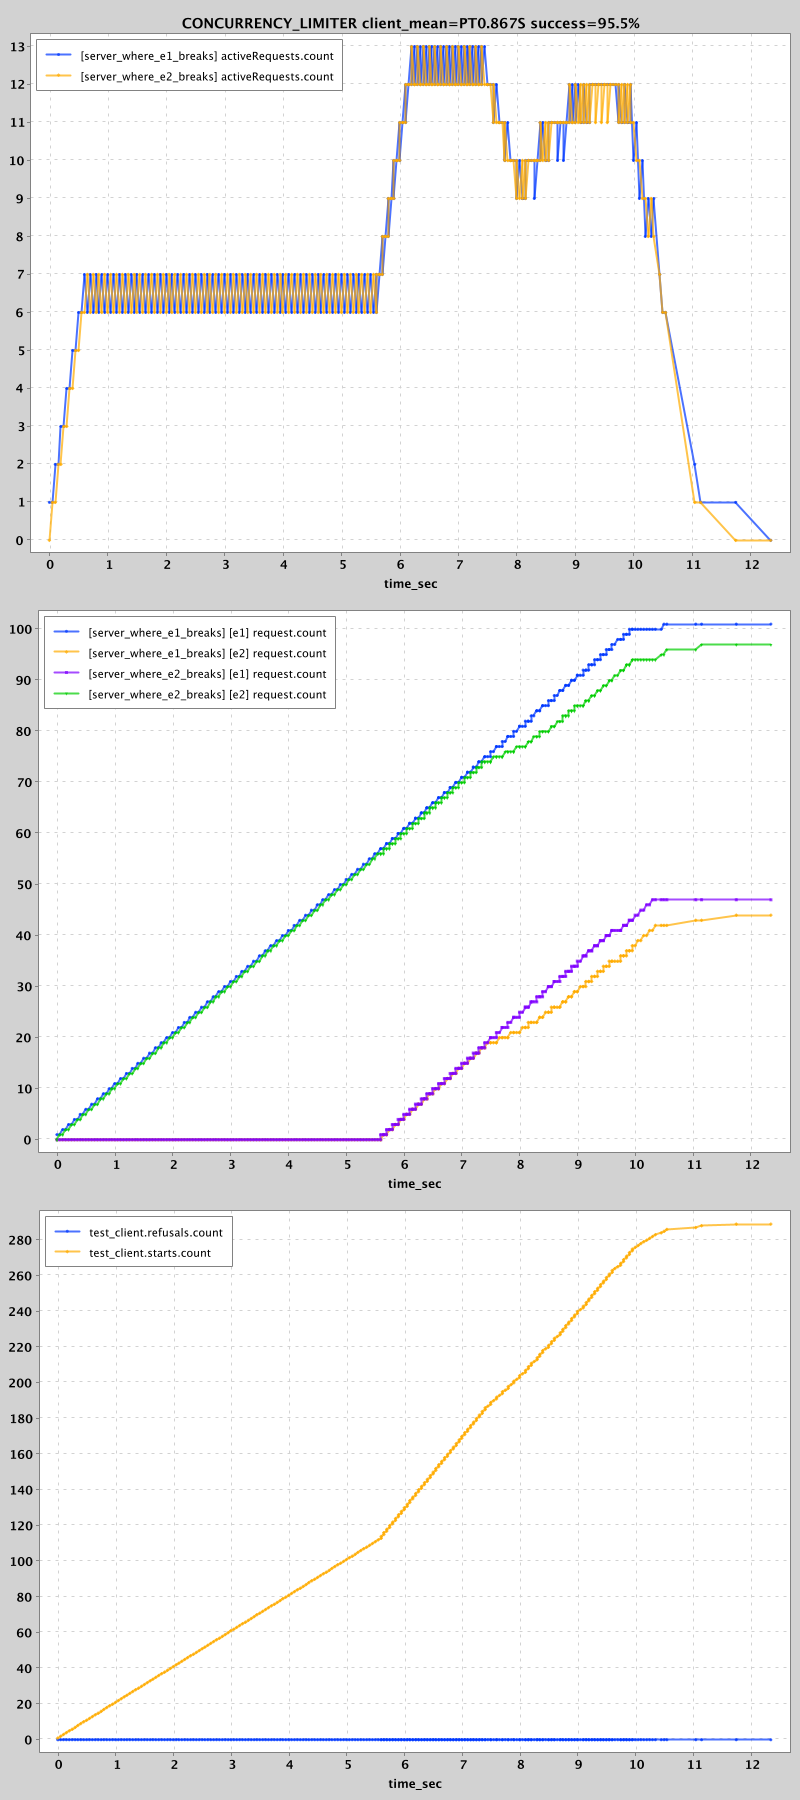
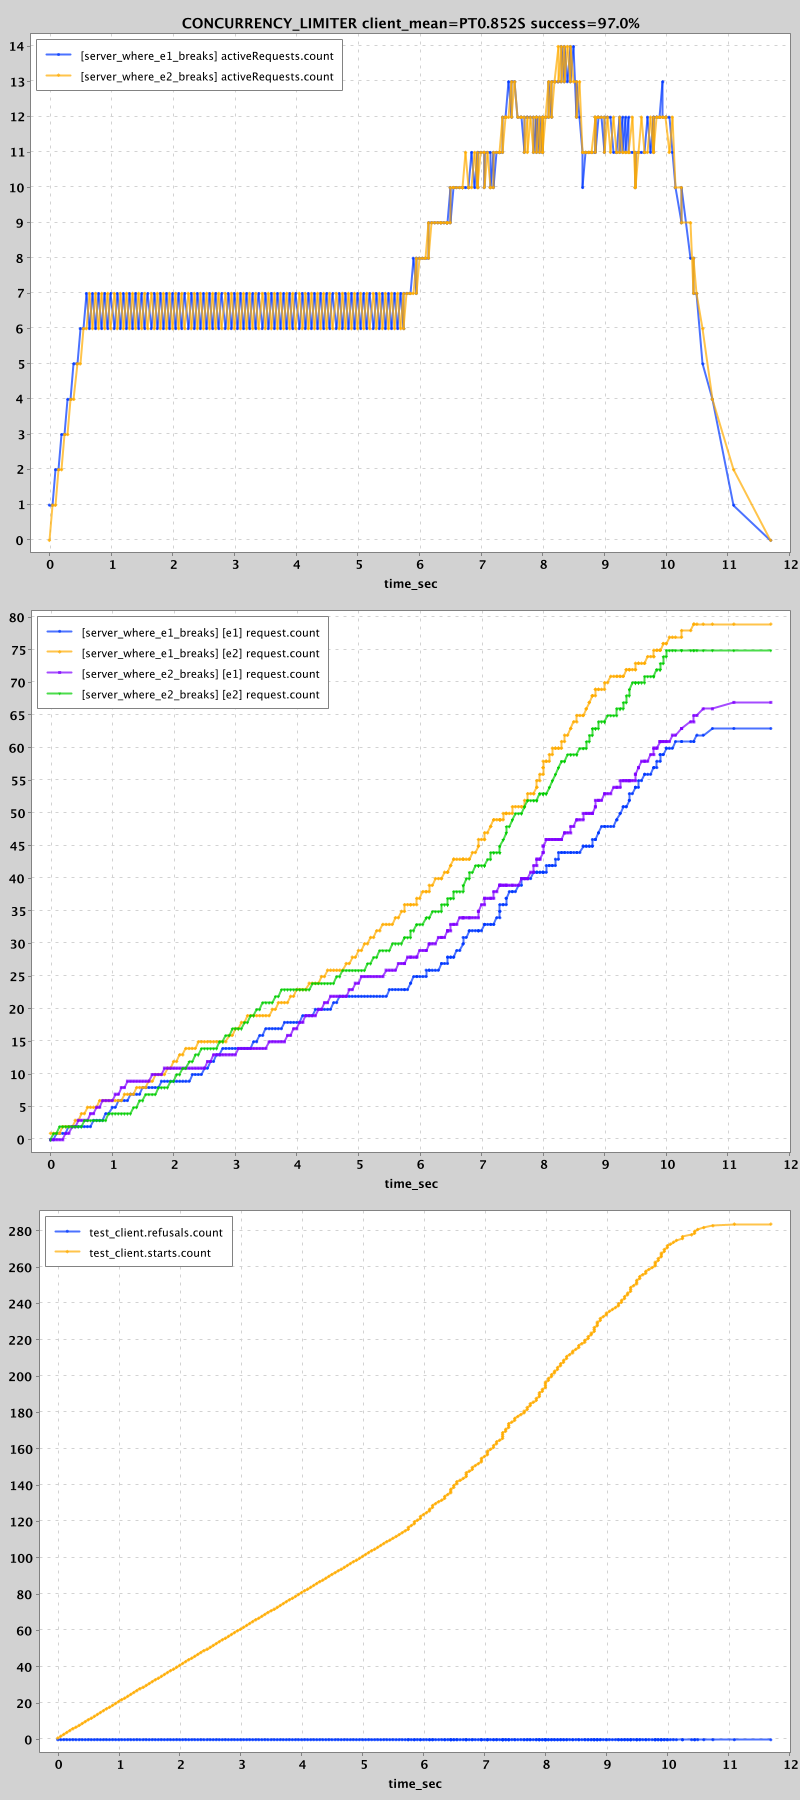
Randomize endpoint calls

diff --git a/simulation/src/main/java/com/palantir/dialogue/core/Benchmark.java b/simulation/src/main/java/com/palantir/dialogue/core/Benchmark.java
@@ -35,6 +35,7 @@ import java.time.Duration;
 import java.time.Instant;
 import java.util.HashMap;
 import java.util.Map;
+import java.util.Random;
 import java.util.concurrent.TimeUnit;
 import java.util.function.Function;
 import java.util.stream.Stream;
@@ -79,12 +80,20 @@ public final class Benchmark {
         return this;
     }
 
-    public Benchmark endpoints(Endpoint... endpoints) {
+    public Benchmark randomEndpoints(Endpoint... endpoints) {
+        return endpoints(true, endpoints);
+    }
+
+    public Benchmark endpoints(boolean randomize, Endpoint... endpoints) {
         Preconditions.checkNotNull(requestStream, "Must call sendUntil or numRequests first");
-        requestStream = requestStream.map(req -> ImmutableScheduledRequest.builder()
-                .from(req)
-                .endpoint(endpoints[req.number() % endpoints.length])
-                .build());
+        Random pseudoRandom = new Random(21876781263L);
+        requestStream = requestStream.map(req -> {
+            int index = randomize ? pseudoRandom.nextInt(endpoints.length) : req.number() % endpoints.length;
+            return ImmutableScheduledRequest.builder()
+                    .from(req)
+                    .endpoint(endpoints[index])
+                    .build();
+        });
         return this;
     }
 
@@ -157,10 +166,11 @@ public final class Benchmark {
 
             simulation.schedule(
                     () -> {
-                        log.debug(
-                                "time={} kicking off request {}",
+                        log.info(
+                                "time={} starting num={} {}",
                                 simulation.clock().read(),
-                                req.number());
+                                req.number(),
+                                req);
                         ListenableFuture<Response> future = histogramChannel.execute(req.endpoint(), req.request());
                         requestsStarted[0] += 1;
 

diff --git a/simulation/src/test/java/com/palantir/dialogue/core/SimulationTest.java b/simulation/src/test/java/com/palantir/dialogue/core/SimulationTest.java
@@ -320,7 +320,7 @@ public class SimulationTest {
                 .simulation(simulation)
                 .requestsPerSecond(20)
                 .sendUntil(Duration.ofSeconds(10))
-                .endpoints(endpoint1, endpoint2)
+                .randomEndpoints(endpoint1, endpoint2)
                 .abortAfter(Duration.ofMinutes(1))
                 .channel(channel)
                 .run();

diff --git a/simulation/src/main/java/com/palantir/dialogue/core/SimulationUtils.java b/simulation/src/main/java/com/palantir/dialogue/core/SimulationUtils.java
@@ -95,6 +95,11 @@ public final class SimulationUtils {
             public String version() {
                 return "1.0.0";
             }
+
+            @Override
+            public String toString() {
+                return endpointName();
+            }
         };
     }
 
